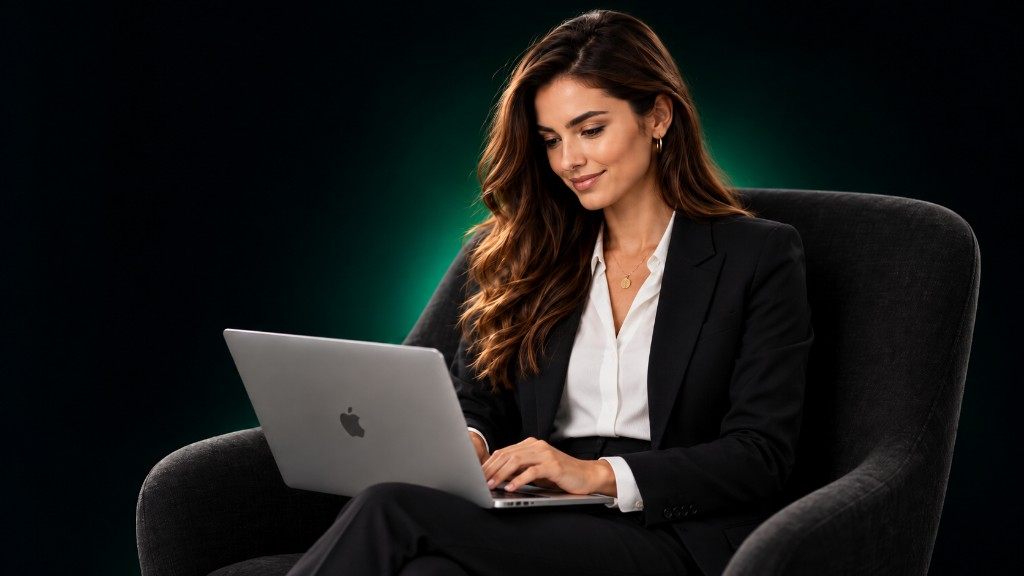
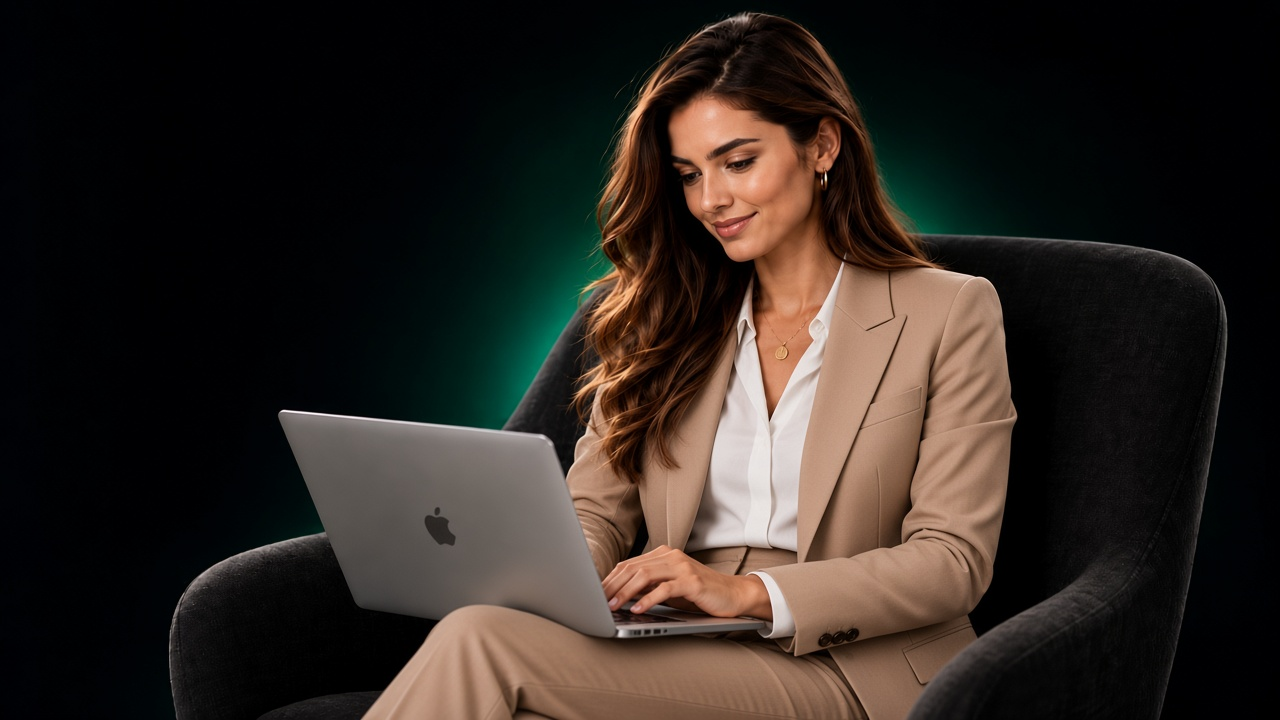
update image-hero

diff --git a/components/home-hero.tsx b/components/home-hero.tsx
@@ -121,7 +121,7 @@ export function HomeHero({ user }: { user: SessionUser | null }) {
 function HeroPhoto() {
   return (
     <img
-      src="/hero-woman.jpg?v=1"
+      src="/hero-woman.jpg?v=2"
       alt="Professional working on a laptop"
       className="absolute inset-0 h-full w-full object-contain object-right-bottom max-lg:object-cover max-lg:object-[72%_20%]"
       decoding="async"
